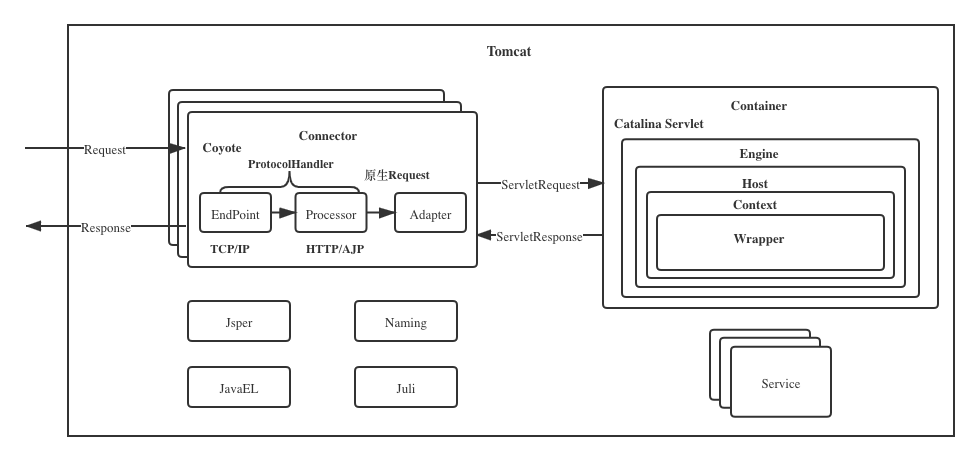
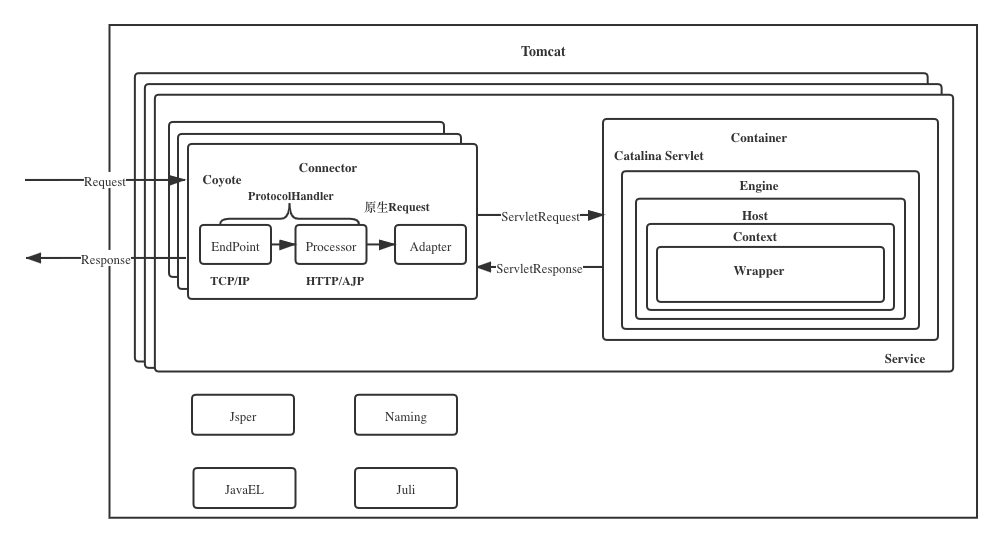
update Tomcat

Changed region(s): [[0.0306, 0.0304, 0.9806, 0.9718], [0.7048, 0.8503, 0.858, 0.9111], [0.7661, 0.82, 0.8274, 0.8503]]

diff --git a/java-web/Tomcat.md b/java-web/Tomcat.md
@@ -2,7 +2,7 @@
 
 ![Tomcat](./assets/Tomcat.png)
 
-
+#### 组件
 
 - Http服务
   - 和客户端浏览器进行交互，进行socket通信，将字节流和Request/Response等对象进行转换
@@ -18,6 +18,12 @@
 
 
 
+#### 设计
+
+根据功能抽象出组件，组件内部高内聚（相似功能高度聚合）、组件之间低耦合（低依赖，组件之间基于抽象接口交互，封装变化降低耦合）
+
+
+
 #### 连接器（Coyote）
 
 Coyote 是Tomcat 中连接器的组件名称 , 是对外的接口。客户端通过Coyote与服务器建立连接、发送请求并接受响应。
@@ -25,21 +31,24 @@ Coyote 是Tomcat 中连接器的组件名称 , 是对外的接口。客户端通
 - Coyote 封装了底层的网络通信（Socket 请求及响应处理）
 - Coyote 使Catalina 容器（容器组件）与具体的请求协议及IO操作方式完全解耦-
 - Coyote 将Socket 输入转换封装为 Request 对象，进一步封装后交由Catalina 容器进行处理，处理请求完成后, Catalina 通过Coyote 提供的Response 对象将结果写入输出流
-- Coyote 负责的是具体协议（应用层）和IO（传输层）相关内容、
+- Coyote 负责的是具体协议（应用层）和IO（传输层）相关内容
+- 一个连接器对应一个监听端口
 
 
 
 **核心组件：**
 
-- **EndPoint**：是Coyote通信监听接口，是具体的Socket接收发送处理器，是用来实现TCP/IP协议的，是对传输层的抽象。
-
+- **EndPoint**：是Coyote通信监听接口，是具体的Socket接收发送处理器，是用来实现TCP/IP协议的，是对传输层的抽象。主要实现：NioEndpoint、Nio2Endpoint，有两个重要的子组件：Acceptor和SocketProcessor：
+  - Acceptor：用于监听Socket连接请求，Endpoint中的Acceptor有多个，每个Acceptor跑在单独的线程里
+  - SocketProcessor：用于处理接收到的Socket请求，它实现Runnable接口，在Run方法里调用协议处理组件Processor进行处理。为了提高处理能力，SocketProcessor被提交到线程池来执行。而这个线程池叫作执行器（Executor)
 - **Processor**：是Coyote协议处理接口，用来接收EndPoint的Socket，读取字节流解析成Tomcat Request和Response对象，并通过Adapter提交到对应容器处理，是用来实现HTTP协议的，是对应用层的抽象。
-
   - **ProtocolHandler**：Coyote 协议接口，通过Endpoint和Processor组件，实现针对具体协议的处理能力。Tomcat 按照协议和I/O 提供了6个实现类 : AjpNioProtocol，AjpAprProtocol，AjpNio2Protocol，**Http11NioProtocol**，**Http11Nio2Protocol**，Http11AprProtocol
-
+  - 由于I/O模型和应用层协议可以自由组合，比如NIO + HTTP或者NIO2 + AJP。Tomcat的设计者将网络通信和应用层协议解析放在一起考虑，设计了一个叫ProtocolHandler的接口来封装这两种变化点。各种协议和通信模型的组合有相应的具体实现类。比如：Http11NioProtocol和AjpNioProtocol。
 - **Adapter**：由于协议不同，客户端发过来的请求信息格式也不相同。ProtocolHandler接口解析请求并生成Tomcat Request类。由于不同协议导致的Request差异，Tomcat设计者的解决方案是引入**CoyoteAdapter**，连接器调用CoyoteAdapter的Sevice方法，传入Tomcat Request对象， CoyoteAdapter负责将Tomcat Request转成ServletRequest，再调用容器。
 
-  
+
+
+<img src="assets/image-20210906235828999.png" alt="image-20210906235828999" style="zoom: 40%;" />
 
 
 
